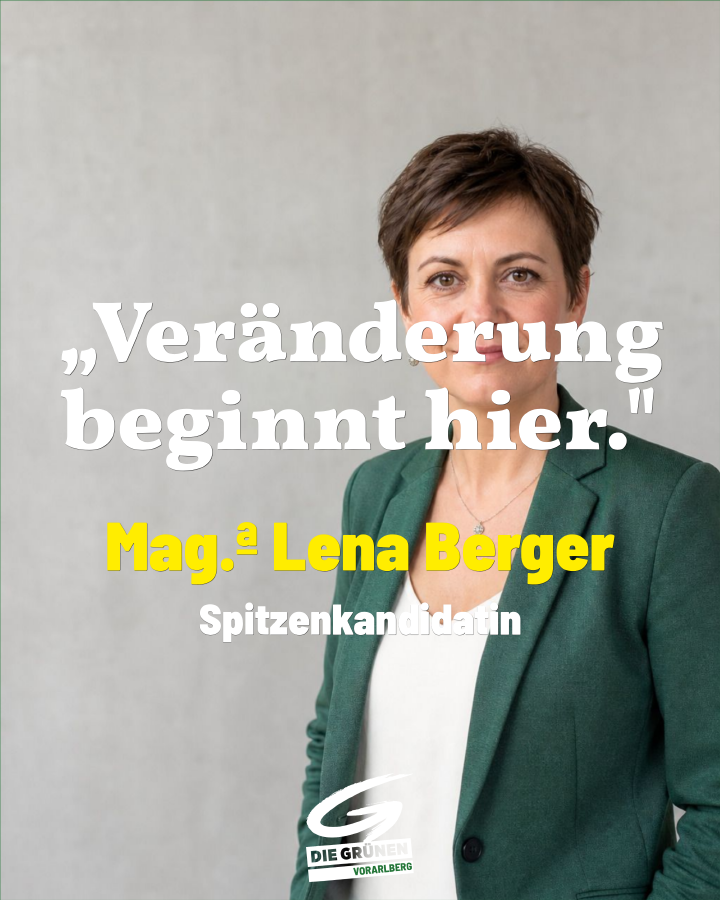
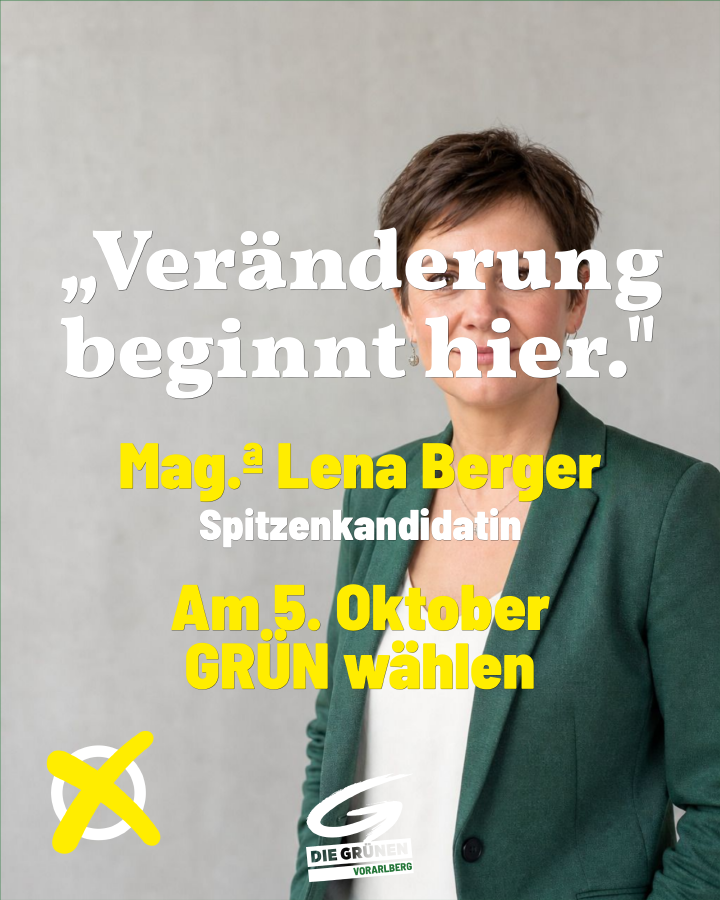
feat(examples): add Wahlkreuz + election call-to-action to the Kandidatin sharepic
- Drive #add-cross like a user to drop the Wahlkreuz into the empty lower-left
  of the portrait, clear of the face, quote and centre-bottom logo
- Add a yellow standard-font CTA carrying a fictional election date
  (Am 5. Oktober GRÜN wählen) below the name/role attribution
- Rebalance the quote, name, role and CTA bands so everything reads cleanly
- Add an addWahlkreuz helper plus EXAMPLE_FILTER/THUMB_MAX env knobs for
  iterating on a single example
- Update gallery alt text (index.html, schriften.html) to mention the
  Wahlaufruf and Wahlkreuz

Changed region(s): [[0.0917, 0.2489, 0.9167, 0.7778], [0.0611, 0.8089, 0.2444, 0.9644]]

diff --git a/schriften.html b/schriften.html
@@ -176,7 +176,7 @@
 
       <figure class="schriften-figure">
         <img src="resources/images/examples/zitat-kandidatin-feed.png"
-             alt="Beispiel: Zitat in der betonten Serifenschrift" loading="lazy">
+             alt="Beispiel: Wahlaufruf mit Zitat in der betonten Serifenschrift, Wahlkreuz und Aufruf Am 5. Oktober GRÜN wählen" loading="lazy">
         <figcaption>Zitat in der betonten Serifenschrift — wärmer und persönlicher.</figcaption>
       </figure>
 
@@ -224,7 +224,7 @@
         </figure>
         <figure>
           <img src="resources/images/examples/zitat-kandidatin-feed.png"
-               alt="Feed-Post Zitat einer Kandidatin mit Logo, Porträt-Hintergrund, Zitat in Serifenschrift und Namens-Attribution Mag.ª Lena Berger, Spitzenkandidatin" loading="lazy">
+               alt="Feed-Post Wahlaufruf einer Kandidatin mit Logo, Porträt-Hintergrund, Zitat in Serifenschrift, Namens-Attribution Mag.ª Lena Berger, Spitzenkandidatin, gelbem Wahlkreuz und Aufruf Am 5. Oktober GRÜN wählen" loading="lazy">
           <figcaption>Feed-Post · Zitat · Serifenschrift</figcaption>
         </figure>
         <figure>

diff --git a/index.html b/index.html
@@ -231,7 +231,7 @@
           <figure class="m-0">
             <img
               src="resources/images/examples/zitat-kandidatin-feed.png"
-              alt="Beispiel-Sharepic Feed-Post Zitat einer Kandidatin mit Logo, Porträt-Hintergrund, Zitat in Serifenschrift und Namens-Attribution Mag.ª Lena Berger, Spitzenkandidatin"
+              alt="Beispiel-Sharepic Feed-Post Wahlaufruf einer Kandidatin mit Logo, Porträt-Hintergrund, Zitat in Serifenschrift, Namens-Attribution Mag.ª Lena Berger, Spitzenkandidatin, gelbem Wahlkreuz und Aufruf Am 5. Oktober GRÜN wählen"
               loading="lazy"
               class="w-full h-40 sm:h-48 object-contain rounded-md border border-gray-200 bg-gray-50"
             />
